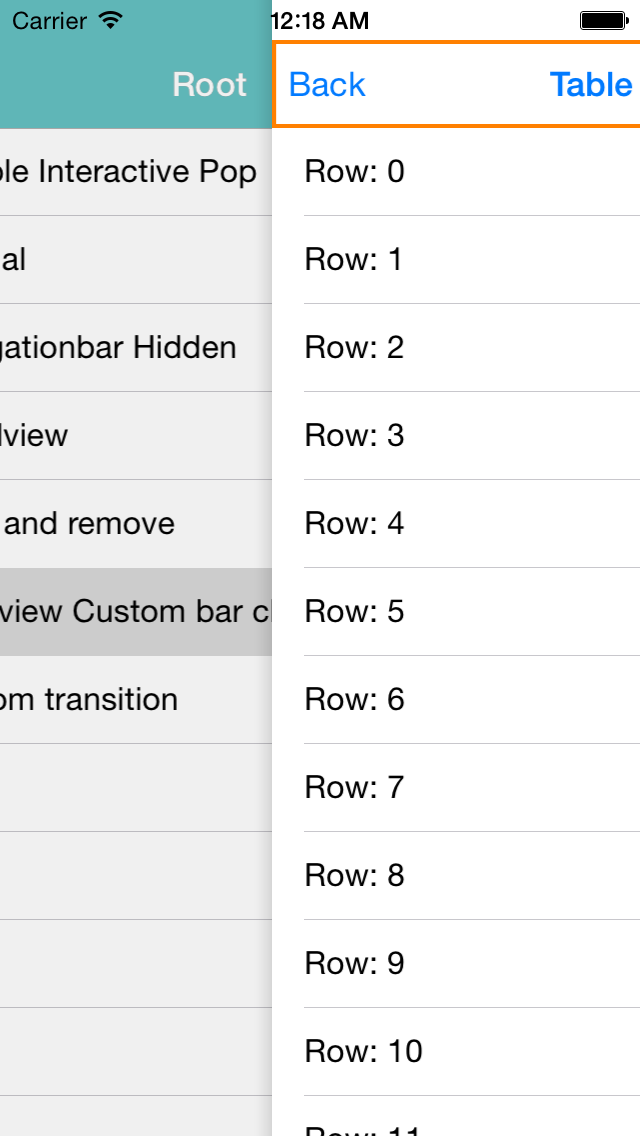
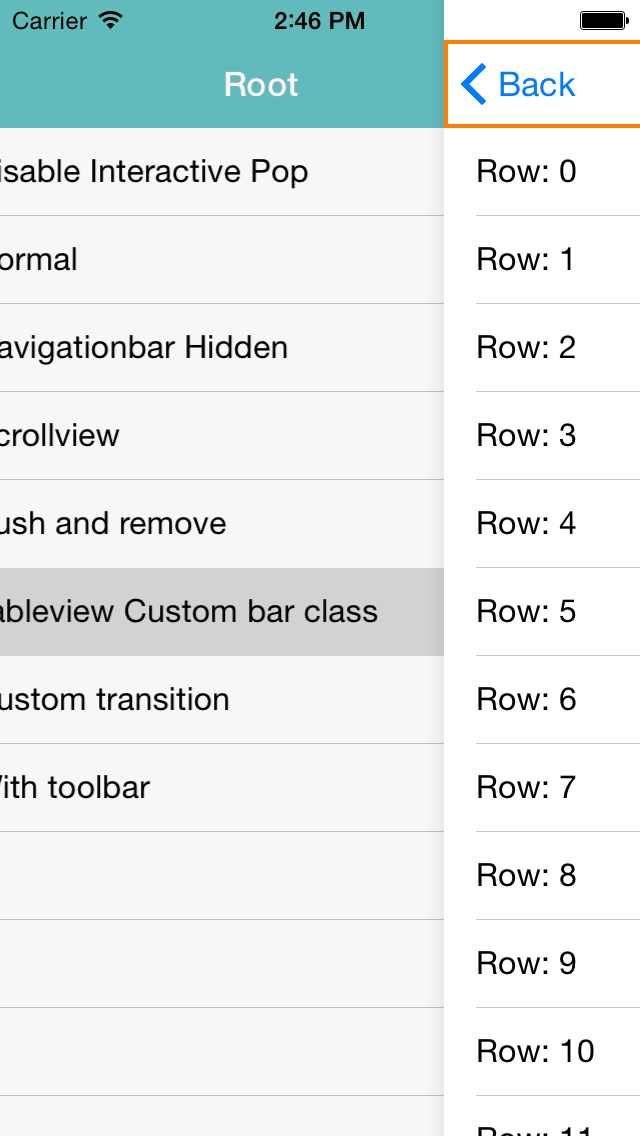
feat: system default back bar button item support

diff --git a/RTRootNavigationController/Classes/RTRootNavigationController.m b/RTRootNavigationController/Classes/RTRootNavigationController.m
@@ -70,7 +70,11 @@
 @property (nonatomic, strong) UINavigationController *containerNavigatioinController;
 
 + (instancetype)containerControllerWithController:(UIViewController *)controller;
-+ (instancetype)containerControllerWithController:(UIViewController *)controller navigationBarClass:(Class)navigationBarClass;
++ (instancetype)containerControllerWithController:(UIViewController *)controller
+                               navigationBarClass:(Class)navigationBarClass;
++ (instancetype)containerControllerWithController:(UIViewController *)controller
+                               navigationBarClass:(Class)navigationBarClass
+                        withPlaceholderController:(BOOL)yesOrNo;
 
 - (instancetype)initWithController:(UIViewController *)controller;
 - (instancetype)initWithController:(UIViewController *)controller navigationBarClass:(Class)navigationBarClass;
@@ -88,18 +92,21 @@ static inline UIViewController *RTSafeUnwrapViewController(UIViewController *con
     return controller;
 }
 
-__attribute((overloadable)) static inline UIViewController *RTSafeWrapViewController(UIViewController *controller) {
+__attribute((overloadable)) static inline UIViewController *RTSafeWrapViewController(UIViewController *controller, Class navigationBarClass, BOOL withPlaceholder) {
     if (![controller isKindOfClass:[RTContainerController class]]) {
-        return [RTContainerController containerControllerWithController:controller];
+        return [RTContainerController containerControllerWithController:controller
+                                                     navigationBarClass:navigationBarClass
+                                              withPlaceholderController:withPlaceholder];
     }
     return controller;
 }
 
 __attribute((overloadable)) static inline UIViewController *RTSafeWrapViewController(UIViewController *controller, Class navigationBarClass) {
-    if (![controller isKindOfClass:[RTContainerController class]]) {
-        return [RTContainerController containerControllerWithController:controller navigationBarClass:navigationBarClass];
-    }
-    return controller;
+    return RTSafeWrapViewController(controller, navigationBarClass, NO);
+}
+
+__attribute((overloadable)) static inline UIViewController *RTSafeWrapViewController(UIViewController *controller) {
+    return RTSafeWrapViewController(controller, nil);
 }
 
 
@@ -110,26 +117,48 @@ __attribute((overloadable)) static inline UIViewController *RTSafeWrapViewContro
     return [[self alloc] initWithController:controller];
 }
 
-+ (instancetype)containerControllerWithController:(UIViewController *)controller navigationBarClass:(Class)navigationBarClass
++ (instancetype)containerControllerWithController:(UIViewController *)controller
+                               navigationBarClass:(Class)navigationBarClass
 {
     return [[self alloc] initWithController:controller
                          navigationBarClass:navigationBarClass];
 }
 
++ (instancetype)containerControllerWithController:(UIViewController *)controller
+                               navigationBarClass:(Class)navigationBarClass
+                        withPlaceholderController:(BOOL)yesOrNo
+{
+    return [[self alloc] initWithController:controller
+                         navigationBarClass:navigationBarClass
+                  withPlaceholderController:yesOrNo];
+}
+
 - (instancetype)initWithController:(UIViewController *)controller
                 navigationBarClass:(Class)navigationBarClass
+         withPlaceholderController:(BOOL)yesOrNo
 {
     self = [super init];
     if (self) {
         self.contentViewController = controller;
         self.containerNavigatioinController = [[RTContainerNavigationControllerInternal alloc] initWithNavigationBarClass:navigationBarClass
                                                                                                              toolbarClass:nil];
-        self.containerNavigatioinController.viewControllers = @[controller];
+        if (yesOrNo)
+            self.containerNavigatioinController.viewControllers = @[[UIViewController new], controller];
+        else
+            self.containerNavigatioinController.viewControllers = @[controller];
 
         [self addChildViewController:self.containerNavigatioinController];
         [self.containerNavigatioinController didMoveToParentViewController:self];
     }
     return self;
+}
+
+- (instancetype)initWithController:(UIViewController *)controller
+                navigationBarClass:(Class)navigationBarClass
+{
+    return [self initWithController:controller
+                 navigationBarClass:navigationBarClass
+          withPlaceholderController:NO];
 }
 
 - (instancetype)initWithController:(UIViewController *)controller
@@ -181,17 +210,27 @@ __attribute((overloadable)) static inline UIViewController *RTSafeWrapViewContro
 - (void)viewDidLoad
 {
     [super viewDidLoad];
-    
-    self.navigationBar.translucent = self.navigationController.navigationBar.isTranslucent;
-    self.navigationBar.tintColor = self.navigationController.navigationBar.tintColor;
-    self.navigationBar.barTintColor = self.navigationController.navigationBar.barTintColor;
-    self.navigationBar.backgroundColor = self.navigationController.navigationBar.backgroundColor;
-    [self.navigationBar setBackgroundImage:[self.navigationController.navigationBar backgroundImageForBarMetrics:UIBarMetricsDefault]
-                             forBarMetrics:UIBarMetricsDefault];
-    self.navigationBar.titleTextAttributes = self.navigationController.navigationBar.titleTextAttributes;
-    self.navigationBar.shadowImage = self.navigationController.navigationBar.shadowImage;
-    self.navigationBar.backIndicatorImage = self.navigationController.navigationBar.backIndicatorImage;
-    self.navigationBar.backIndicatorTransitionMaskImage = self.navigationController.navigationBar.backIndicatorTransitionMaskImage;
+
+    //self.interactivePopGestureRecognizer.delegate = nil;
+    self.interactivePopGestureRecognizer.enabled = NO;
+
+    if (self.rt_navigationController.transferNavigationBarAttributes) {
+        self.navigationBar.translucent     = self.navigationController.navigationBar.isTranslucent;
+        self.navigationBar.tintColor       = self.navigationController.navigationBar.tintColor;
+        self.navigationBar.barTintColor    = self.navigationController.navigationBar.barTintColor;
+        self.navigationBar.barStyle        = self.navigationController.navigationBar.barStyle;
+        self.navigationBar.backgroundColor = self.navigationController.navigationBar.backgroundColor;
+
+        [self.navigationBar setBackgroundImage:[self.navigationController.navigationBar backgroundImageForBarMetrics:UIBarMetricsDefault]
+                                 forBarMetrics:UIBarMetricsDefault];
+        [self.navigationBar setTitleVerticalPositionAdjustment:[self.navigationController.navigationBar titleVerticalPositionAdjustmentForBarMetrics:UIBarMetricsDefault]
+                                                 forBarMetrics:UIBarMetricsDefault];
+
+        self.navigationBar.titleTextAttributes              = self.navigationController.navigationBar.titleTextAttributes;
+        self.navigationBar.shadowImage                      = self.navigationController.navigationBar.shadowImage;
+        self.navigationBar.backIndicatorImage               = self.navigationController.navigationBar.backIndicatorImage;
+        self.navigationBar.backIndicatorTransitionMaskImage = self.navigationController.navigationBar.backIndicatorTransitionMaskImage;
+    }
 }
 
 - (UIViewController *)viewControllerForUnwindSegueAction:(SEL)action
@@ -295,6 +334,11 @@ __attribute((overloadable)) static inline UIViewController *RTSafeWrapViewContro
     [self popViewControllerAnimated:YES];
 }
 
+- (void)_commonInit
+{
+    self.transferNavigationBarAttributes = YES;
+}
+
 #pragma mark - Overrides
 
 - (instancetype)initWithCoder:(NSCoder *)aDecoder
@@ -302,6 +346,16 @@ __attribute((overloadable)) static inline UIViewController *RTSafeWrapViewContro
     self = [super initWithCoder:aDecoder];
     if (self) {
         self.viewControllers = [super viewControllers];
+        [self _commonInit];
+    }
+    return self;
+}
+
+- (instancetype)initWithNavigationBarClass:(Class)navigationBarClass toolbarClass:(Class)toolbarClass
+{
+    self = [super initWithNavigationBarClass:navigationBarClass toolbarClass:toolbarClass];
+    if (self) {
+        [self _commonInit];
     }
     return self;
 }
@@ -310,7 +364,7 @@ __attribute((overloadable)) static inline UIViewController *RTSafeWrapViewContro
 {
     self = [super initWithRootViewController:RTSafeWrapViewController(rootViewController)];
     if (self) {
-
+        [self _commonInit];
     }
     return self;
 }
@@ -355,8 +409,14 @@ __attribute((overloadable)) static inline UIViewController *RTSafeWrapViewContro
 - (void)pushViewController:(UIViewController *)viewController
                   animated:(BOOL)animated
 {
-    [super pushViewController:RTSafeWrapViewController(viewController, viewController.rt_navigationBarClass)
-                     animated:animated];
+    if (self.viewControllers.count > 0) {
+        [super pushViewController:RTSafeWrapViewController(viewController, viewController.rt_navigationBarClass, self.useSystemBackBarButtonItem)
+                         animated:animated];
+    }
+    else {
+        [super pushViewController:RTSafeWrapViewController(viewController, viewController.rt_navigationBarClass)
+                         animated:animated];
+    }
 }
 
 - (UIViewController *)popViewControllerAnimated:(BOOL)animated
@@ -383,7 +443,7 @@ __attribute((overloadable)) static inline UIViewController *RTSafeWrapViewContro
     }];
     if (controllerToPop) {
         return [[super popToViewController:controllerToPop
-                                 animated:animated] rt_map:^id(id obj) {
+                                  animated:animated] rt_map:^id(id obj) {
             return RTSafeUnwrapViewController(obj);
         }];
     }
@@ -482,8 +542,10 @@ __attribute((overloadable)) static inline UIViewController *RTSafeWrapViewContro
     BOOL isRootVC = viewController == navigationController.viewControllers.firstObject;
     if (!isRootVC) {
         viewController = RTSafeUnwrapViewController(viewController);
-        viewController.navigationItem.leftBarButtonItem = [viewController customBackItemWithTarget:self
-                                                                                            action:@selector(onBack:)];
+        if (!self.useSystemBackBarButtonItem) {
+            viewController.navigationItem.leftBarButtonItem = [viewController customBackItemWithTarget:self
+                                                                                                action:@selector(onBack:)];
+        }
     }
 
     if ([self.rt_delegate respondsToSelector:@selector(navigationController:willShowViewController:animated:)]) {
@@ -565,9 +627,14 @@ __attribute((overloadable)) static inline UIViewController *RTSafeWrapViewContro
 
 #pragma mark - UIGestureRecognizerDelegate
 
+- (BOOL)gestureRecognizer:(UIGestureRecognizer *)gestureRecognizer shouldRecognizeSimultaneouslyWithGestureRecognizer:(UIGestureRecognizer *)otherGestureRecognizer
+{
+    return YES;
+}
+
 - (BOOL)gestureRecognizer:(UIGestureRecognizer *)gestureRecognizer
 shouldBeRequiredToFailByGestureRecognizer:(UIGestureRecognizer *)otherGestureRecognizer {
-    return [gestureRecognizer isKindOfClass:UIScreenEdgePanGestureRecognizer.class];
+    return gestureRecognizer == self.interactivePopGestureRecognizer;
 }
 
 @end

diff --git a/RTRootNavigationController/Classes/RTRootNavigationController.h b/RTRootNavigationController/Classes/RTRootNavigationController.h
@@ -27,8 +27,16 @@
 @property (nonatomic, readonly, strong) __kindof UIViewController *contentViewController;
 @end
 
-
+IB_DESIGNABLE
 @interface RTRootNavigationController : UINavigationController
+
+/*!
+ *  @brief use system original back bar item or custom back bar item returned by `- (UIBarButtonItem *)customBackItemWithTarget:(id)target action:(SEL)action`, default is NO
+ *  @warning Set this to YES will increase memory usage!
+ */
+@property (nonatomic, assign) IBInspectable BOOL useSystemBackBarButtonItem;
+
+@property (nonatomic, assign) IBInspectable BOOL transferNavigationBarAttributes;   // Weather each individual navigation bar uses the visual style of root navigation bar. Default is YES
 
 /*!
  *  @brief use this property instead of `visibleViewController` to get the current visiable content view controller
